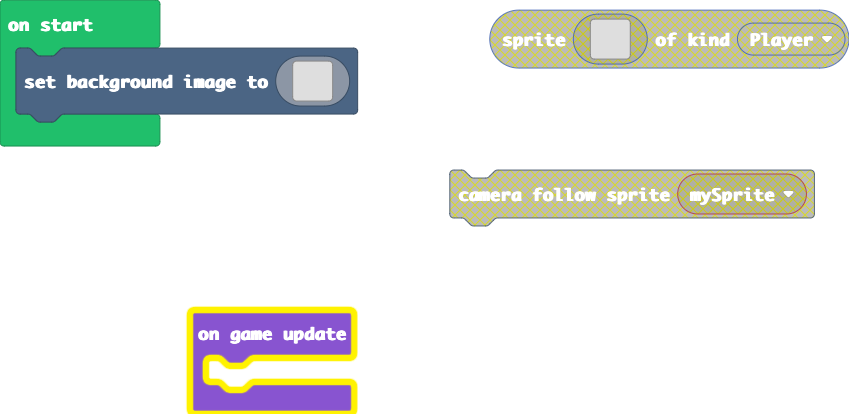
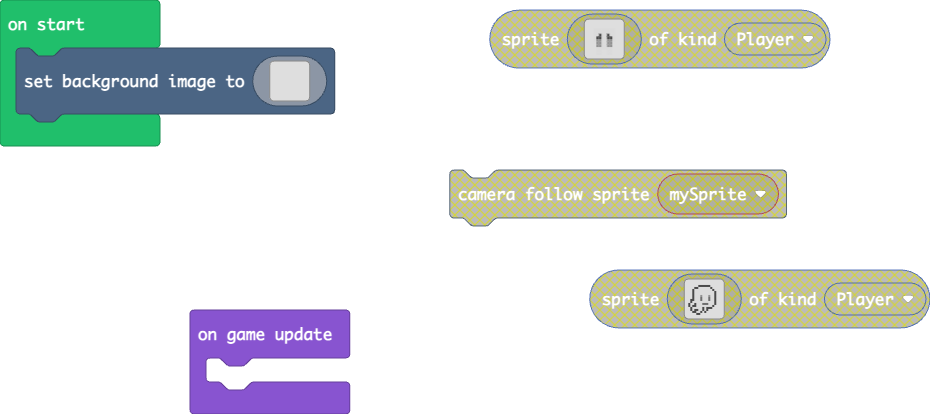
Update main.blocks, main.ts

diff --git a/main.ts b/main.ts
@@ -1,19 +1,16 @@
 scene.setBackgroundImage(img`
-    ..............................
-    ..............................
-    ..............................
-    ..............................
-    ..............................
-    ..............................
-    ..............................
-    ..............................
-    ..............................
-    ..............................
-    ..............................
-    ..............................
-    ..............................
-    ..............................
-    ..............................
+    . . . . . . . . . . . . 
+    . . . . . . . . . . . . 
+    . . . . . . . . . . . . 
+    . . . . . . . . . . . . 
+    . . . . . . . . . . . . 
+    . . . . . . . . . . . . 
+    . . . . . . . . . . . . 
+    . . . . . . . . . . . . 
+    . . . . . . . . . . . . 
+    . . . . . . . . . . . . 
+    . . . . . . . . . . . . 
+    . . . . . . . . . . . . 
     `)
 game.onUpdate(function () {
 	
